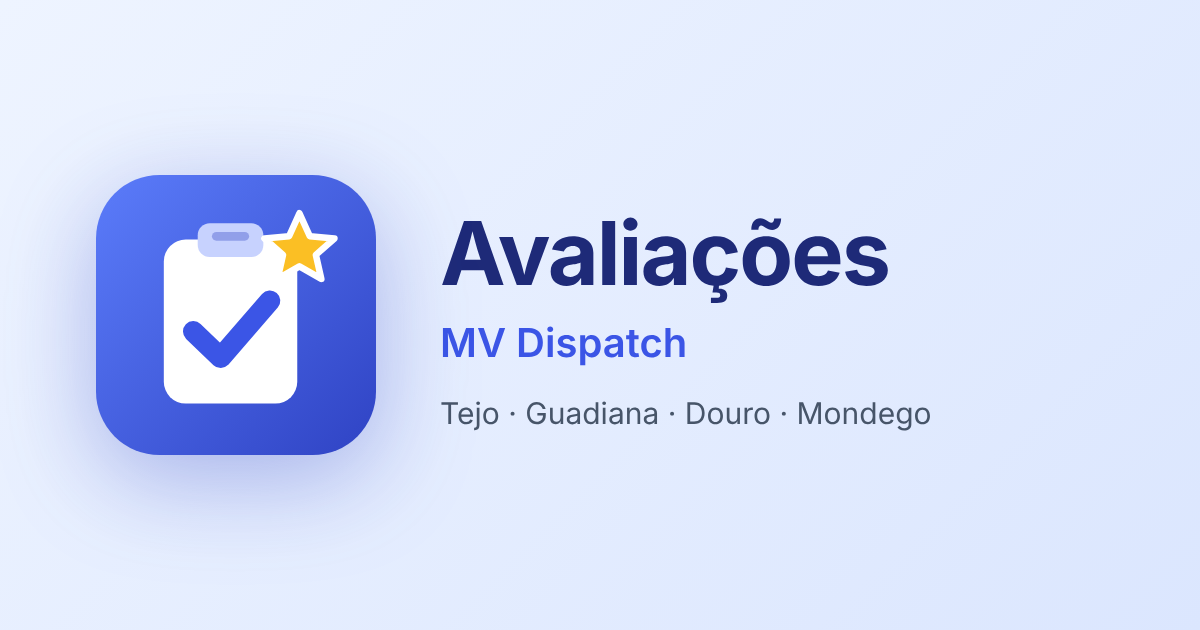
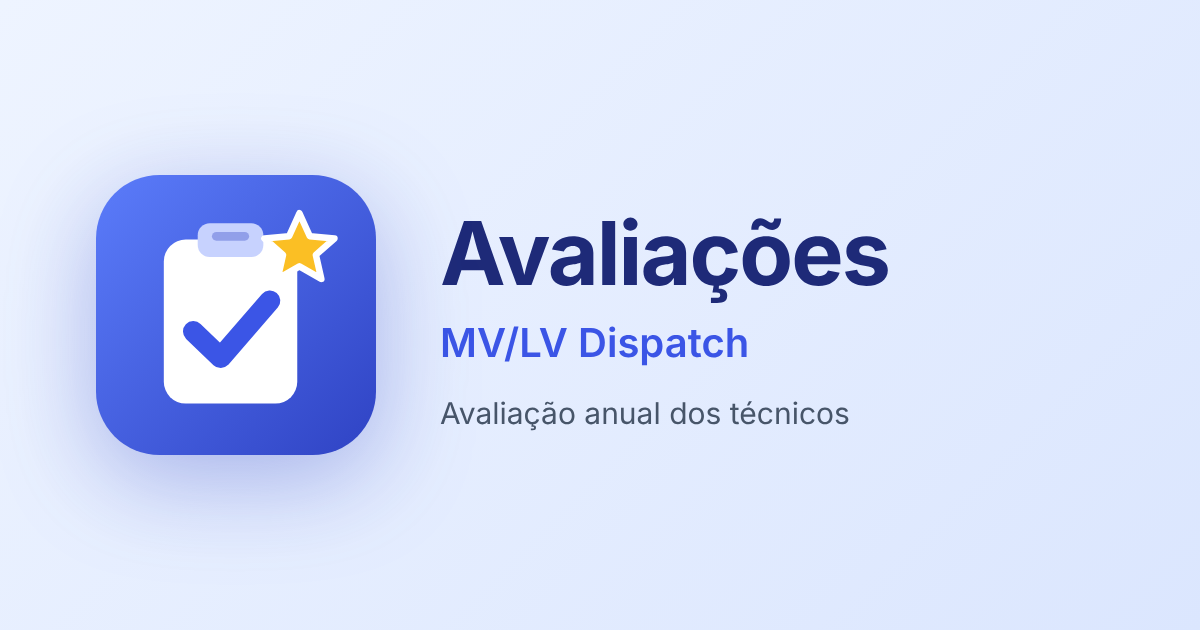
MV/LV Dispatch: nova área LV Dispatch
- Nome geral passa a MV/LV Dispatch (login, títulos, imagem de partilha)
- Equipas têm um nome de apresentação (label): "MV Dispatch Tejo",
  "LV Dispatch"…
- Migração 004: cria a equipa LV Dispatch com o período e critérios do
  Tejo e os 23 técnicos

Claude-Session: https://claude.ai/code/session_017pLJsxqcbBqP5iQCEb4cAd

Changed region(s): [[0.37, 0.6333, 0.7708, 0.6937], [0.4008, 0.5127, 0.6475, 0.573]]

diff --git a/app/admin/periodos/page.tsx b/app/admin/periodos/page.tsx
@@ -41,7 +41,7 @@ export default async function Periodos() {
         {isGlobalAdmin(me) && (
           <label className="w-full flex items-center gap-2 text-sm text-slate-700">
             <input type="checkbox" name="all_teams" className="h-4 w-4 accent-brand-600" />
-            Criar em todas as equipas (Tejo, Guadiana, Douro e Mondego)
+            Criar em todas as equipas
           </label>
         )}
         <p className="w-full text-xs text-slate-500">Os critérios e pesos são copiados do período mais recente de cada equipa.</p>

diff --git a/lib/config.ts b/lib/config.ts
@@ -1,6 +1,8 @@
 export const APP_NAME = 'Avaliações'
-export const AREA = 'MV Dispatch'
+export const AREA = 'MV/LV Dispatch'
 
-export function teamLabel(team: { name: string } | null) {
-  return team ? `${AREA} ${team.name}` : AREA
+// Nome mostrado de cada equipa: "MV Dispatch Tejo", "LV Dispatch"…
+export function teamLabel(team: { name: string; label?: string } | null) {
+  if (!team) return AREA
+  return team.label || `MV Dispatch ${team.name}`
 }

diff --git a/lib/types.ts b/lib/types.ts
@@ -8,7 +8,7 @@ export type Profile = {
   team_id: string | null // null = administrador global
 }
 
-export type Team = { id: string; name: string; position: number }
+export type Team = { id: string; name: string; position: number; label?: string }
 
 export type Technician = { id: string; name: string; active: boolean; team_id: string }
 

diff --git a/README.md b/README.md
@@ -1,6 +1,6 @@
 # Avaliações
 
-Avaliação anual dos técnicos pelos engenheiros · MV Dispatch (Tejo, Guadiana, Douro, Mondego).
+Avaliação anual dos técnicos pelos engenheiros · MV/LV Dispatch (MV Dispatch Tejo, Guadiana, Douro, Mondego e LV Dispatch).
 
 - Cada equipa tem os seus engenheiros, técnicos, períodos e critérios. As equipas não veem os dados umas das outras.
 - Cada engenheiro avalia todos os técnicos da sua equipa (6 critérios ponderados, escala Mau → Excelente, comentário por critério).
@@ -19,7 +19,7 @@ Next.js 14 · Supabase (base de dados + login com email e palavra-passe) · Verc
 ### 1. Supabase (projecto novo)
 
 1. Criar um projecto novo em [supabase.com](https://supabase.com).
-2. **SQL Editor** → colar e correr `supabase/migrations/001_init.sql` e depois `002_password_login.sql` e `003_teams.sql` (pela ordem).
+2. **SQL Editor** → colar e correr `supabase/migrations/001_init.sql` e depois `002_password_login.sql`, `003_teams.sql` e `004_lv_dispatch.sql` (pela ordem).
 3. **SQL Editor** → colar e correr `supabase/seed.sql` (período 2026, critérios da folha actual e lista de técnicos).
 4. **Authentication → Users → Add user** → criar o teu utilizador com o teu email e uma palavra-passe (marcar *Auto Confirm User*).
 5. **SQL Editor** → tornar-te administrador:
